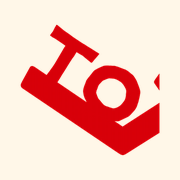
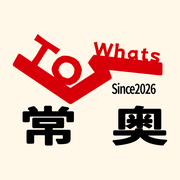
フッターの半円を常奥のロゴにし、ファビコンを「常奥」入りのロゴに変更
Claude-Session: https://claude.ai/code/session_01QEffCajgHTwxjFGVMfpu5V

diff --git a/blog/post-template.html b/blog/post-template.html
@@ -12,7 +12,8 @@
 <meta property="og:locale" content="ja_JP">
 <meta name="theme-color" content="#e0433a">
 <meta property="article:published_time" content="{{DATE}}">
-<link rel="icon" href="../../assets/favicon.png" type="image/png">
+<link rel="icon" href="../../assets/favicon-32.png" sizes="32x32" type="image/png">
+<link rel="icon" href="../../assets/favicon.png" sizes="256x256" type="image/png">
 <link rel="apple-touch-icon" href="../../assets/apple-touch-icon.png">
 <!-- Morisawa Fonts の埋め込みコードを入れるときは、トップページ（index.html）と同じものをここにも貼ってください -->
 <link rel="preconnect" href="https://fonts.googleapis.com">
@@ -76,7 +77,7 @@
 
 <footer class="footer">
   <svg class="divider divider--footer" viewBox="0 0 2880 48" preserveAspectRatio="none" aria-hidden="true"><path d="M0 22 Q60 10 120 22 T240 22 T360 22 T480 22 T600 22 T720 22 T840 22 T960 22 T1080 22 T1200 22 T1320 22 T1440 22 T1560 22 T1680 22 T1800 22 T1920 22 T2040 22 T2160 22 T2280 22 T2400 22 T2520 22 T2640 22 T2760 22 T2880 22 V48 H0Z"/></svg>
-  <div class="footer__sun" aria-hidden="true"></div>
+  <img class="footer__logo" src="../../assets/logo.png" alt="" width="1000" height="722" loading="lazy">
   <p class="footer__copy" data-en="Delivering smiles<br>from Hitachi &amp; Mutsu.">常陸・陸奥から<br>笑顔を届ける。</p>
   <p class="footer__name">常奥 ToWhats</p>
   <p class="footer__small">&copy; <span id="year">2026</span> ToWhats</p>

diff --git a/members/kobayashi/index.html b/members/kobayashi/index.html
@@ -11,7 +11,8 @@
 <meta property="og:site_name" content="常奥 ToWhats">
 <meta property="og:locale" content="ja_JP">
 <meta name="theme-color" content="#e0433a">
-<link rel="icon" href="../../assets/favicon.png" type="image/png">
+<link rel="icon" href="../../assets/favicon-32.png" sizes="32x32" type="image/png">
+<link rel="icon" href="../../assets/favicon.png" sizes="256x256" type="image/png">
 <link rel="apple-touch-icon" href="../../assets/apple-touch-icon.png">
 <!-- Morisawa Fonts の埋め込みコードを入れるときは、トップページ（index.html）と同じものをここにも貼ってください -->
 <link rel="preconnect" href="https://fonts.googleapis.com">
@@ -124,7 +125,7 @@
 
 <footer class="footer">
   <svg class="divider divider--footer" viewBox="0 0 2880 48" preserveAspectRatio="none" aria-hidden="true"><path d="M0 22 Q60 10 120 22 T240 22 T360 22 T480 22 T600 22 T720 22 T840 22 T960 22 T1080 22 T1200 22 T1320 22 T1440 22 T1560 22 T1680 22 T1800 22 T1920 22 T2040 22 T2160 22 T2280 22 T2400 22 T2520 22 T2640 22 T2760 22 T2880 22 V48 H0Z"/></svg>
-  <div class="footer__sun" aria-hidden="true"></div>
+  <img class="footer__logo" src="../../assets/logo.png" alt="" width="1000" height="722" loading="lazy">
   <p class="footer__copy" data-en="Delivering smiles<br>from Hitachi &amp; Mutsu.">常陸・陸奥から<br>笑顔を届ける。</p>
   <p class="footer__name">常奥 ToWhats</p>
   <p class="footer__small">&copy; <span id="year">2026</span> ToWhats</p>

diff --git a/members/uehara/index.html b/members/uehara/index.html
@@ -11,7 +11,8 @@
 <meta property="og:site_name" content="常奥 ToWhats">
 <meta property="og:locale" content="ja_JP">
 <meta name="theme-color" content="#e0433a">
-<link rel="icon" href="../../assets/favicon.png" type="image/png">
+<link rel="icon" href="../../assets/favicon-32.png" sizes="32x32" type="image/png">
+<link rel="icon" href="../../assets/favicon.png" sizes="256x256" type="image/png">
 <link rel="apple-touch-icon" href="../../assets/apple-touch-icon.png">
 <!-- Morisawa Fonts の埋め込みコードを入れるときは、トップページ（index.html）と同じものをここにも貼ってください -->
 <link rel="preconnect" href="https://fonts.googleapis.com">
@@ -124,7 +125,7 @@
 
 <footer class="footer">
   <svg class="divider divider--footer" viewBox="0 0 2880 48" preserveAspectRatio="none" aria-hidden="true"><path d="M0 22 Q60 10 120 22 T240 22 T360 22 T480 22 T600 22 T720 22 T840 22 T960 22 T1080 22 T1200 22 T1320 22 T1440 22 T1560 22 T1680 22 T1800 22 T1920 22 T2040 22 T2160 22 T2280 22 T2400 22 T2520 22 T2640 22 T2760 22 T2880 22 V48 H0Z"/></svg>
-  <div class="footer__sun" aria-hidden="true"></div>
+  <img class="footer__logo" src="../../assets/logo.png" alt="" width="1000" height="722" loading="lazy">
   <p class="footer__copy" data-en="Delivering smiles<br>from Hitachi &amp; Mutsu.">常陸・陸奥から<br>笑顔を届ける。</p>
   <p class="footer__name">常奥 ToWhats</p>
   <p class="footer__small">&copy; <span id="year">2026</span> ToWhats</p>

diff --git a/members/anzai/index.html b/members/anzai/index.html
@@ -11,7 +11,8 @@
 <meta property="og:site_name" content="常奥 ToWhats">
 <meta property="og:locale" content="ja_JP">
 <meta name="theme-color" content="#e0433a">
-<link rel="icon" href="../../assets/favicon.png" type="image/png">
+<link rel="icon" href="../../assets/favicon-32.png" sizes="32x32" type="image/png">
+<link rel="icon" href="../../assets/favicon.png" sizes="256x256" type="image/png">
 <link rel="apple-touch-icon" href="../../assets/apple-touch-icon.png">
 <!-- Morisawa Fonts の埋め込みコードを入れるときは、トップページ（index.html）と同じものをここにも貼ってください -->
 <link rel="preconnect" href="https://fonts.googleapis.com">
@@ -97,7 +98,7 @@
 
 <footer class="footer">
   <svg class="divider divider--footer" viewBox="0 0 2880 48" preserveAspectRatio="none" aria-hidden="true"><path d="M0 22 Q60 10 120 22 T240 22 T360 22 T480 22 T600 22 T720 22 T840 22 T960 22 T1080 22 T1200 22 T1320 22 T1440 22 T1560 22 T1680 22 T1800 22 T1920 22 T2040 22 T2160 22 T2280 22 T2400 22 T2520 22 T2640 22 T2760 22 T2880 22 V48 H0Z"/></svg>
-  <div class="footer__sun" aria-hidden="true"></div>
+  <img class="footer__logo" src="../../assets/logo.png" alt="" width="1000" height="722" loading="lazy">
   <p class="footer__copy" data-en="Delivering smiles<br>from Hitachi &amp; Mutsu.">常陸・陸奥から<br>笑顔を届ける。</p>
   <p class="footer__name">常奥 ToWhats</p>
   <p class="footer__small">&copy; <span id="year">2026</span> ToWhats</p>

diff --git a/members/yuki/index.html b/members/yuki/index.html
@@ -11,7 +11,8 @@
 <meta property="og:site_name" content="常奥 ToWhats">
 <meta property="og:locale" content="ja_JP">
 <meta name="theme-color" content="#e0433a">
-<link rel="icon" href="../../assets/favicon.png" type="image/png">
+<link rel="icon" href="../../assets/favicon-32.png" sizes="32x32" type="image/png">
+<link rel="icon" href="../../assets/favicon.png" sizes="256x256" type="image/png">
 <link rel="apple-touch-icon" href="../../assets/apple-touch-icon.png">
 <!-- Morisawa Fonts の埋め込みコードを入れるときは、トップページ（index.html）と同じものをここにも貼ってください -->
 <link rel="preconnect" href="https://fonts.googleapis.com">
@@ -97,7 +98,7 @@
 
 <footer class="footer">
   <svg class="divider divider--footer" viewBox="0 0 2880 48" preserveAspectRatio="none" aria-hidden="true"><path d="M0 22 Q60 10 120 22 T240 22 T360 22 T480 22 T600 22 T720 22 T840 22 T960 22 T1080 22 T1200 22 T1320 22 T1440 22 T1560 22 T1680 22 T1800 22 T1920 22 T2040 22 T2160 22 T2280 22 T2400 22 T2520 22 T2640 22 T2760 22 T2880 22 V48 H0Z"/></svg>
-  <div class="footer__sun" aria-hidden="true"></div>
+  <img class="footer__logo" src="../../assets/logo.png" alt="" width="1000" height="722" loading="lazy">
   <p class="footer__copy" data-en="Delivering smiles<br>from Hitachi &amp; Mutsu.">常陸・陸奥から<br>笑顔を届ける。</p>
   <p class="footer__name">常奥 ToWhats</p>
   <p class="footer__small">&copy; <span id="year">2026</span> ToWhats</p>

diff --git a/news/2025-business-idea-contest/index.html b/news/2025-business-idea-contest/index.html
@@ -11,7 +11,8 @@
 <meta property="og:site_name" content="常奥 ToWhats">
 <meta property="og:locale" content="ja_JP">
 <meta name="theme-color" content="#e0433a">
-<link rel="icon" href="../../assets/favicon.png" type="image/png">
+<link rel="icon" href="../../assets/favicon-32.png" sizes="32x32" type="image/png">
+<link rel="icon" href="../../assets/favicon.png" sizes="256x256" type="image/png">
 <link rel="apple-touch-icon" href="../../assets/apple-touch-icon.png">
 <!-- Morisawa Fonts の埋め込みコードを入れるときは、トップページ（index.html）と同じものをここにも貼ってください -->
 <link rel="preconnect" href="https://fonts.googleapis.com">
@@ -79,7 +80,7 @@
 
 <footer class="footer">
   <svg class="divider divider--footer" viewBox="0 0 2880 48" preserveAspectRatio="none" aria-hidden="true"><path d="M0 22 Q60 10 120 22 T240 22 T360 22 T480 22 T600 22 T720 22 T840 22 T960 22 T1080 22 T1200 22 T1320 22 T1440 22 T1560 22 T1680 22 T1800 22 T1920 22 T2040 22 T2160 22 T2280 22 T2400 22 T2520 22 T2640 22 T2760 22 T2880 22 V48 H0Z"/></svg>
-  <div class="footer__sun" aria-hidden="true"></div>
+  <img class="footer__logo" src="../../assets/logo.png" alt="" width="1000" height="722" loading="lazy">
   <p class="footer__copy" data-en="Delivering smiles<br>from Hitachi &amp; Mutsu.">常陸・陸奥から<br>笑顔を届ける。</p>
   <p class="footer__name">常奥 ToWhats</p>
   <p class="footer__small">&copy; <span id="year">2026</span> ToWhats</p>

diff --git a/news/2026-spark-tohoku/index.html b/news/2026-spark-tohoku/index.html
@@ -11,7 +11,8 @@
 <meta property="og:site_name" content="常奥 ToWhats">
 <meta property="og:locale" content="ja_JP">
 <meta name="theme-color" content="#e0433a">
-<link rel="icon" href="../../assets/favicon.png" type="image/png">
+<link rel="icon" href="../../assets/favicon-32.png" sizes="32x32" type="image/png">
+<link rel="icon" href="../../assets/favicon.png" sizes="256x256" type="image/png">
 <link rel="apple-touch-icon" href="../../assets/apple-touch-icon.png">
 <!-- Morisawa Fonts の埋め込みコードを入れるときは、トップページ（index.html）と同じものをここにも貼ってください -->
 <link rel="preconnect" href="https://fonts.googleapis.com">
@@ -79,7 +80,7 @@
 
 <footer class="footer">
   <svg class="divider divider--footer" viewBox="0 0 2880 48" preserveAspectRatio="none" aria-hidden="true"><path d="M0 22 Q60 10 120 22 T240 22 T360 22 T480 22 T600 22 T720 22 T840 22 T960 22 T1080 22 T1200 22 T1320 22 T1440 22 T1560 22 T1680 22 T1800 22 T1920 22 T2040 22 T2160 22 T2280 22 T2400 22 T2520 22 T2640 22 T2760 22 T2880 22 V48 H0Z"/></svg>
-  <div class="footer__sun" aria-hidden="true"></div>
+  <img class="footer__logo" src="../../assets/logo.png" alt="" width="1000" height="722" loading="lazy">
   <p class="footer__copy" data-en="Delivering smiles<br>from Hitachi &amp; Mutsu.">常陸・陸奥から<br>笑顔を届ける。</p>
   <p class="footer__name">常奥 ToWhats</p>
   <p class="footer__small">&copy; <span id="year">2026</span> ToWhats</p>

diff --git a/news/news-template.html b/news/news-template.html
@@ -11,7 +11,8 @@
 <meta property="og:site_name" content="常奥 ToWhats">
 <meta property="og:locale" content="ja_JP">
 <meta name="theme-color" content="#e0433a">
-<link rel="icon" href="../../assets/favicon.png" type="image/png">
+<link rel="icon" href="../../assets/favicon-32.png" sizes="32x32" type="image/png">
+<link rel="icon" href="../../assets/favicon.png" sizes="256x256" type="image/png">
 <link rel="apple-touch-icon" href="../../assets/apple-touch-icon.png">
 <!-- Morisawa Fonts の埋め込みコードを入れるときは、トップページ（index.html）と同じものをここにも貼ってください -->
 <link rel="preconnect" href="https://fonts.googleapis.com">
@@ -78,7 +79,7 @@
 
 <footer class="footer">
   <svg class="divider divider--footer" viewBox="0 0 2880 48" preserveAspectRatio="none" aria-hidden="true"><path d="M0 22 Q60 10 120 22 T240 22 T360 22 T480 22 T600 22 T720 22 T840 22 T960 22 T1080 22 T1200 22 T1320 22 T1440 22 T1560 22 T1680 22 T1800 22 T1920 22 T2040 22 T2160 22 T2280 22 T2400 22 T2520 22 T2640 22 T2760 22 T2880 22 V48 H0Z"/></svg>
-  <div class="footer__sun" aria-hidden="true"></div>
+  <img class="footer__logo" src="../../assets/logo.png" alt="" width="1000" height="722" loading="lazy">
   <p class="footer__copy" data-en="Delivering smiles<br>from Hitachi &amp; Mutsu.">常陸・陸奥から<br>笑顔を届ける。</p>
   <p class="footer__name">常奥 ToWhats</p>
   <p class="footer__small">&copy; <span id="year">2026</span> ToWhats</p>

diff --git a/works/milcraft/index.html b/works/milcraft/index.html
@@ -11,7 +11,8 @@
 <meta property="og:site_name" content="常奥 ToWhats">
 <meta property="og:locale" content="ja_JP">
 <meta name="theme-color" content="#e0433a">
-<link rel="icon" href="../../assets/favicon.png" type="image/png">
+<link rel="icon" href="../../assets/favicon-32.png" sizes="32x32" type="image/png">
+<link rel="icon" href="../../assets/favicon.png" sizes="256x256" type="image/png">
 <link rel="apple-touch-icon" href="../../assets/apple-touch-icon.png">
 <!-- Morisawa Fonts の埋め込みコードを入れるときは、トップページ（index.html）と同じものをここにも貼ってください -->
 <link rel="preconnect" href="https://fonts.googleapis.com">
@@ -78,7 +79,7 @@
 
 <footer class="footer">
   <svg class="divider divider--footer" viewBox="0 0 2880 48" preserveAspectRatio="none" aria-hidden="true"><path d="M0 22 Q60 10 120 22 T240 22 T360 22 T480 22 T600 22 T720 22 T840 22 T960 22 T1080 22 T1200 22 T1320 22 T1440 22 T1560 22 T1680 22 T1800 22 T1920 22 T2040 22 T2160 22 T2280 22 T2400 22 T2520 22 T2640 22 T2760 22 T2880 22 V48 H0Z"/></svg>
-  <div class="footer__sun" aria-hidden="true"></div>
+  <img class="footer__logo" src="../../assets/logo.png" alt="" width="1000" height="722" loading="lazy">
   <p class="footer__copy" data-en="Delivering smiles<br>from Hitachi &amp; Mutsu.">常陸・陸奥から<br>笑顔を届ける。</p>
   <p class="footer__name">常奥 ToWhats</p>
   <p class="footer__small">&copy; <span id="year">2026</span> ToWhats</p>

diff --git a/works/najoshiteai/index.html b/works/najoshiteai/index.html
@@ -11,7 +11,8 @@
 <meta property="og:site_name" content="常奥 ToWhats">
 <meta property="og:locale" content="ja_JP">
 <meta name="theme-color" content="#e0433a">
-<link rel="icon" href="../../assets/favicon.png" type="image/png">
+<link rel="icon" href="../../assets/favicon-32.png" sizes="32x32" type="image/png">
+<link rel="icon" href="../../assets/favicon.png" sizes="256x256" type="image/png">
 <link rel="apple-touch-icon" href="../../assets/apple-touch-icon.png">
 <!-- Morisawa Fonts の埋め込みコードを入れるときは、トップページ（index.html）と同じものをここにも貼ってください -->
 <link rel="preconnect" href="https://fonts.googleapis.com">
@@ -82,7 +83,7 @@
 
 <footer class="footer">
   <svg class="divider divider--footer" viewBox="0 0 2880 48" preserveAspectRatio="none" aria-hidden="true"><path d="M0 22 Q60 10 120 22 T240 22 T360 22 T480 22 T600 22 T720 22 T840 22 T960 22 T1080 22 T1200 22 T1320 22 T1440 22 T1560 22 T1680 22 T1800 22 T1920 22 T2040 22 T2160 22 T2280 22 T2400 22 T2520 22 T2640 22 T2760 22 T2880 22 V48 H0Z"/></svg>
-  <div class="footer__sun" aria-hidden="true"></div>
+  <img class="footer__logo" src="../../assets/logo.png" alt="" width="1000" height="722" loading="lazy">
   <p class="footer__copy" data-en="Delivering smiles<br>from Hitachi &amp; Mutsu.">常陸・陸奥から<br>笑顔を届ける。</p>
   <p class="footer__name">常奥 ToWhats</p>
   <p class="footer__small">&copy; <span id="year">2026</span> ToWhats</p>

diff --git a/works/wasufinder/index.html b/works/wasufinder/index.html
@@ -11,7 +11,8 @@
 <meta property="og:site_name" content="常奥 ToWhats">
 <meta property="og:locale" content="ja_JP">
 <meta name="theme-color" content="#e0433a">
-<link rel="icon" href="../../assets/favicon.png" type="image/png">
+<link rel="icon" href="../../assets/favicon-32.png" sizes="32x32" type="image/png">
+<link rel="icon" href="../../assets/favicon.png" sizes="256x256" type="image/png">
 <link rel="apple-touch-icon" href="../../assets/apple-touch-icon.png">
 <!-- Morisawa Fonts の埋め込みコードを入れるときは、トップページ（index.html）と同じものをここにも貼ってください -->
 <link rel="preconnect" href="https://fonts.googleapis.com">
@@ -78,7 +79,7 @@
 
 <footer class="footer">
   <svg class="divider divider--footer" viewBox="0 0 2880 48" preserveAspectRatio="none" aria-hidden="true"><path d="M0 22 Q60 10 120 22 T240 22 T360 22 T480 22 T600 22 T720 22 T840 22 T960 22 T1080 22 T1200 22 T1320 22 T1440 22 T1560 22 T1680 22 T1800 22 T1920 22 T2040 22 T2160 22 T2280 22 T2400 22 T2520 22 T2640 22 T2760 22 T2880 22 V48 H0Z"/></svg>
-  <div class="footer__sun" aria-hidden="true"></div>
+  <img class="footer__logo" src="../../assets/logo.png" alt="" width="1000" height="722" loading="lazy">
   <p class="footer__copy" data-en="Delivering smiles<br>from Hitachi &amp; Mutsu.">常陸・陸奥から<br>笑顔を届ける。</p>
   <p class="footer__name">常奥 ToWhats</p>
   <p class="footer__small">&copy; <span id="year">2026</span> ToWhats</p>

diff --git a/works/work-template.html b/works/work-template.html
@@ -11,7 +11,8 @@
 <meta property="og:site_name" content="常奥 ToWhats">
 <meta property="og:locale" content="ja_JP">
 <meta name="theme-color" content="#e0433a">
-<link rel="icon" href="../../assets/favicon.png" type="image/png">
+<link rel="icon" href="../../assets/favicon-32.png" sizes="32x32" type="image/png">
+<link rel="icon" href="../../assets/favicon.png" sizes="256x256" type="image/png">
 <link rel="apple-touch-icon" href="../../assets/apple-touch-icon.png">
 <!-- Morisawa Fonts の埋め込みコードを入れるときは、トップページ（index.html）と同じものをここにも貼ってください -->
 <link rel="preconnect" href="https://fonts.googleapis.com">
@@ -77,7 +78,7 @@
 
 <footer class="footer">
   <svg class="divider divider--footer" viewBox="0 0 2880 48" preserveAspectRatio="none" aria-hidden="true"><path d="M0 22 Q60 10 120 22 T240 22 T360 22 T480 22 T600 22 T720 22 T840 22 T960 22 T1080 22 T1200 22 T1320 22 T1440 22 T1560 22 T1680 22 T1800 22 T1920 22 T2040 22 T2160 22 T2280 22 T2400 22 T2520 22 T2640 22 T2760 22 T2880 22 V48 H0Z"/></svg>
-  <div class="footer__sun" aria-hidden="true"></div>
+  <img class="footer__logo" src="../../assets/logo.png" alt="" width="1000" height="722" loading="lazy">
   <p class="footer__copy" data-en="Delivering smiles<br>from Hitachi &amp; Mutsu.">常陸・陸奥から<br>笑顔を届ける。</p>
   <p class="footer__name">常奥 ToWhats</p>
   <p class="footer__small">&copy; <span id="year">2026</span> ToWhats</p>
